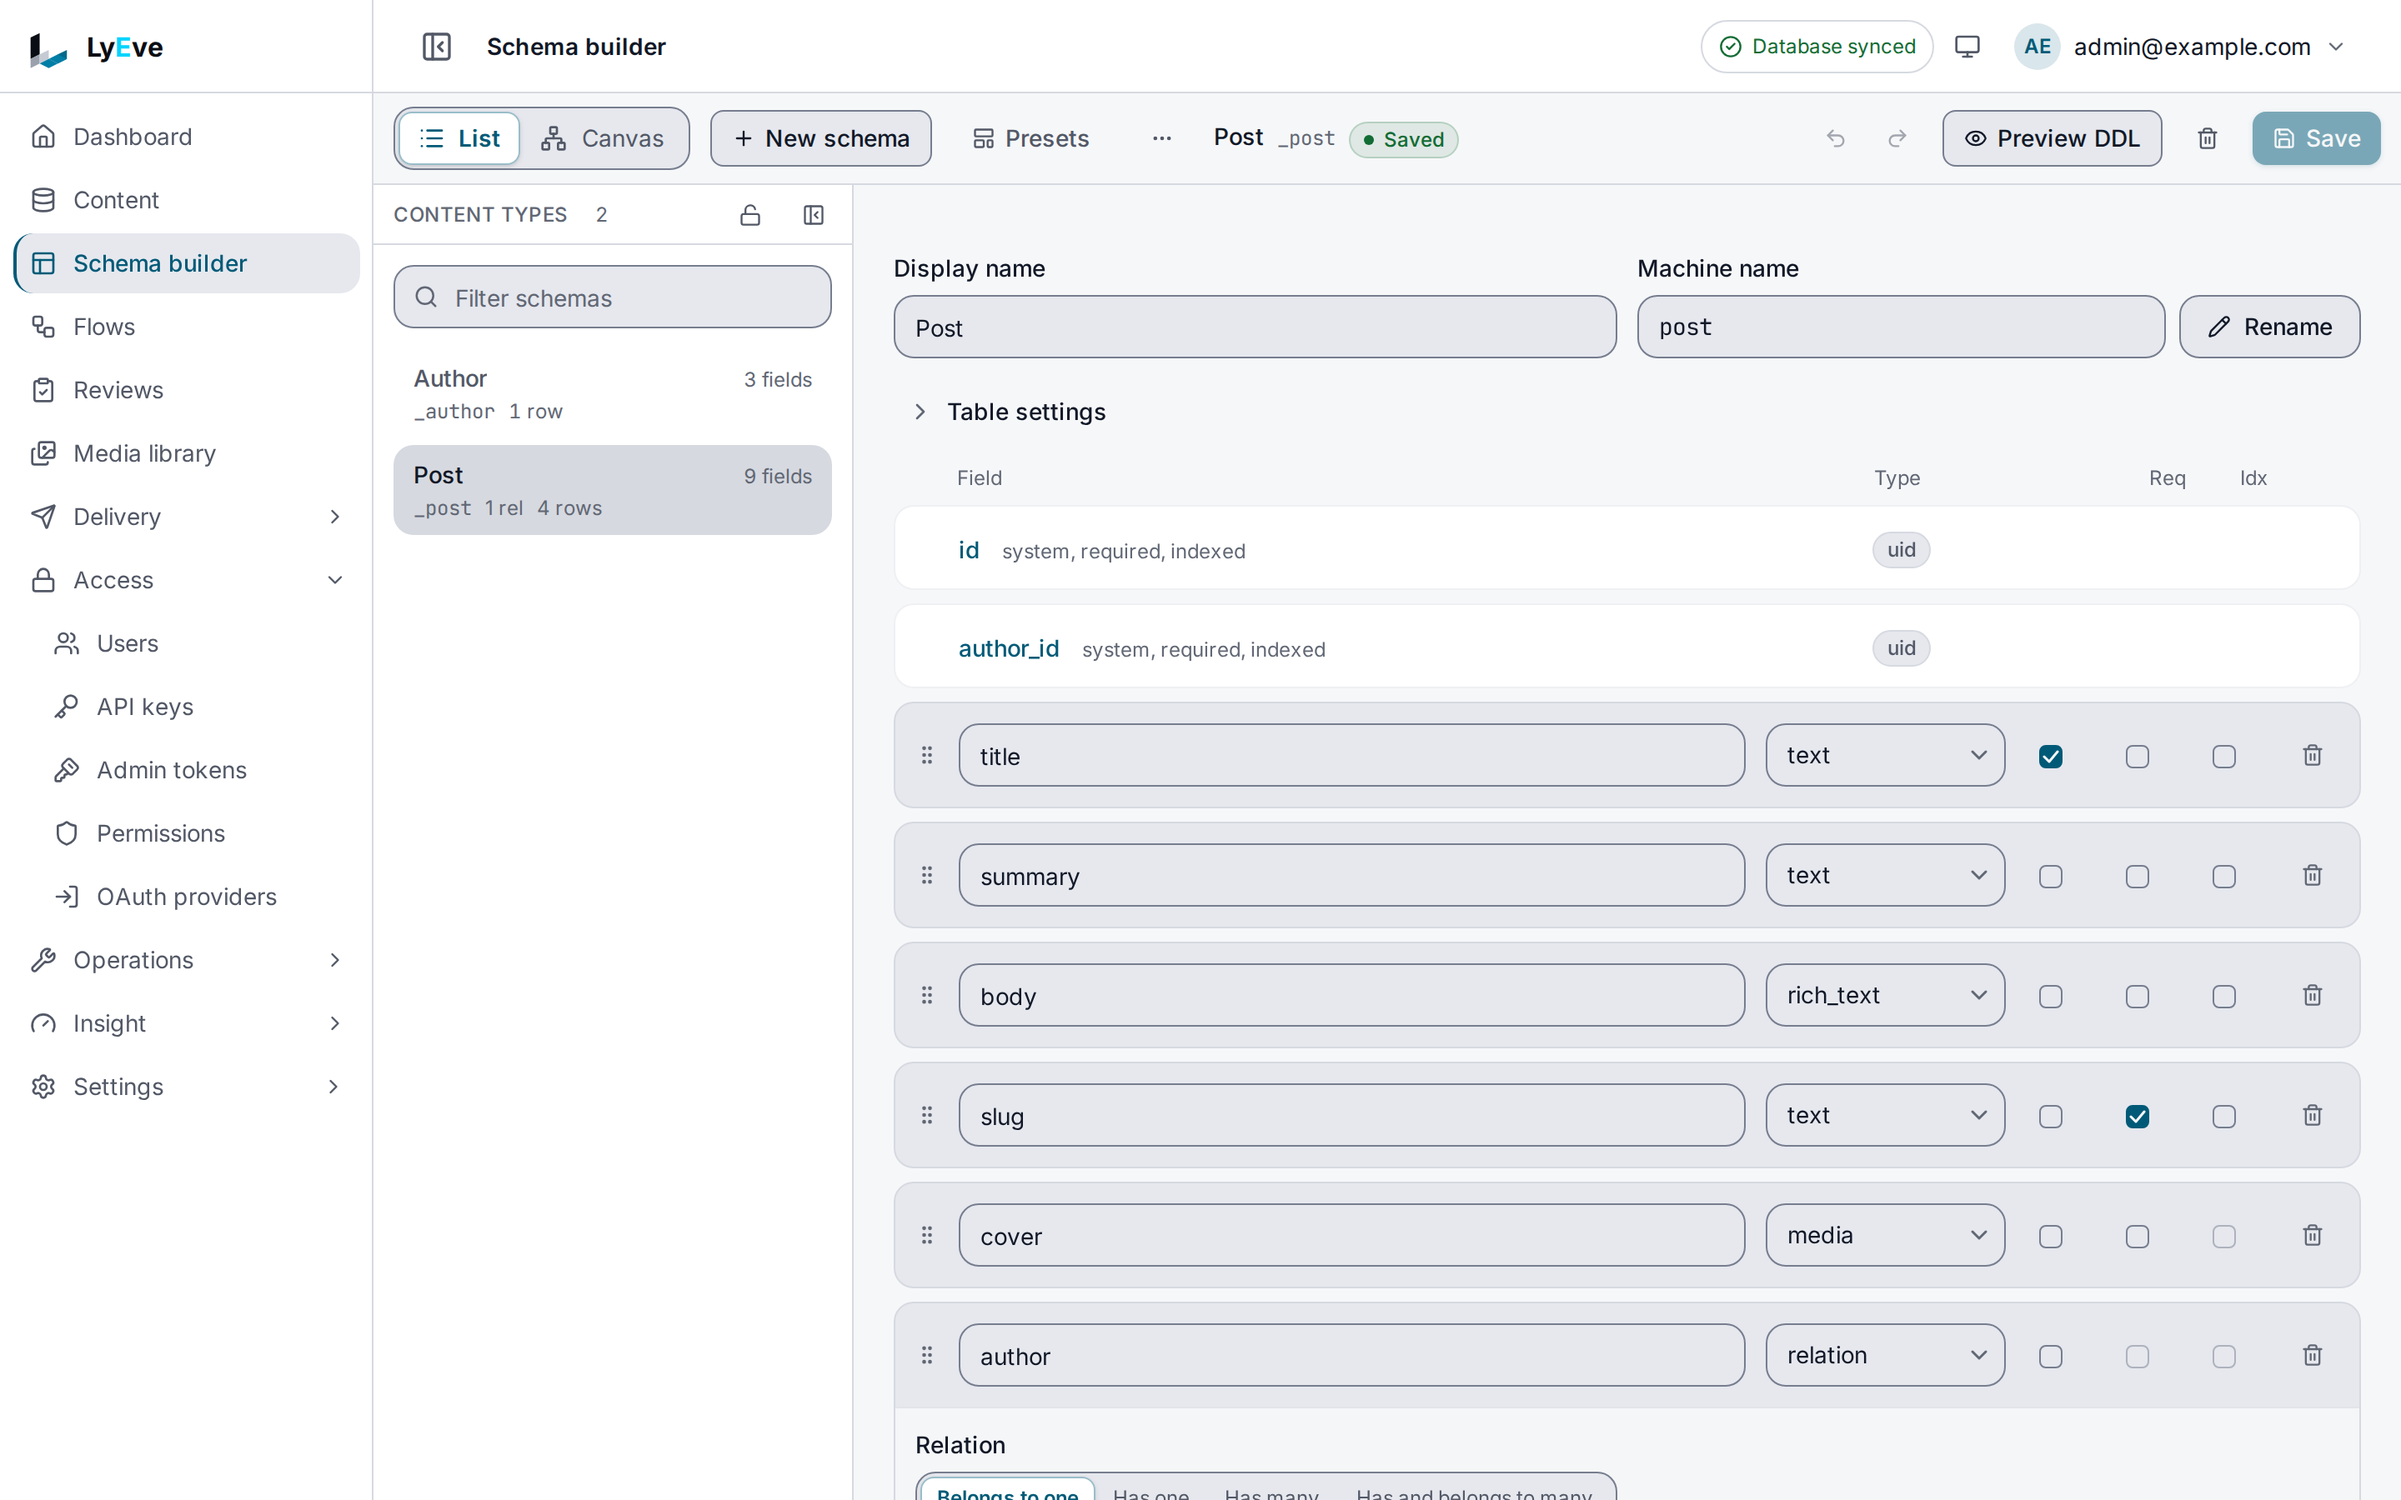
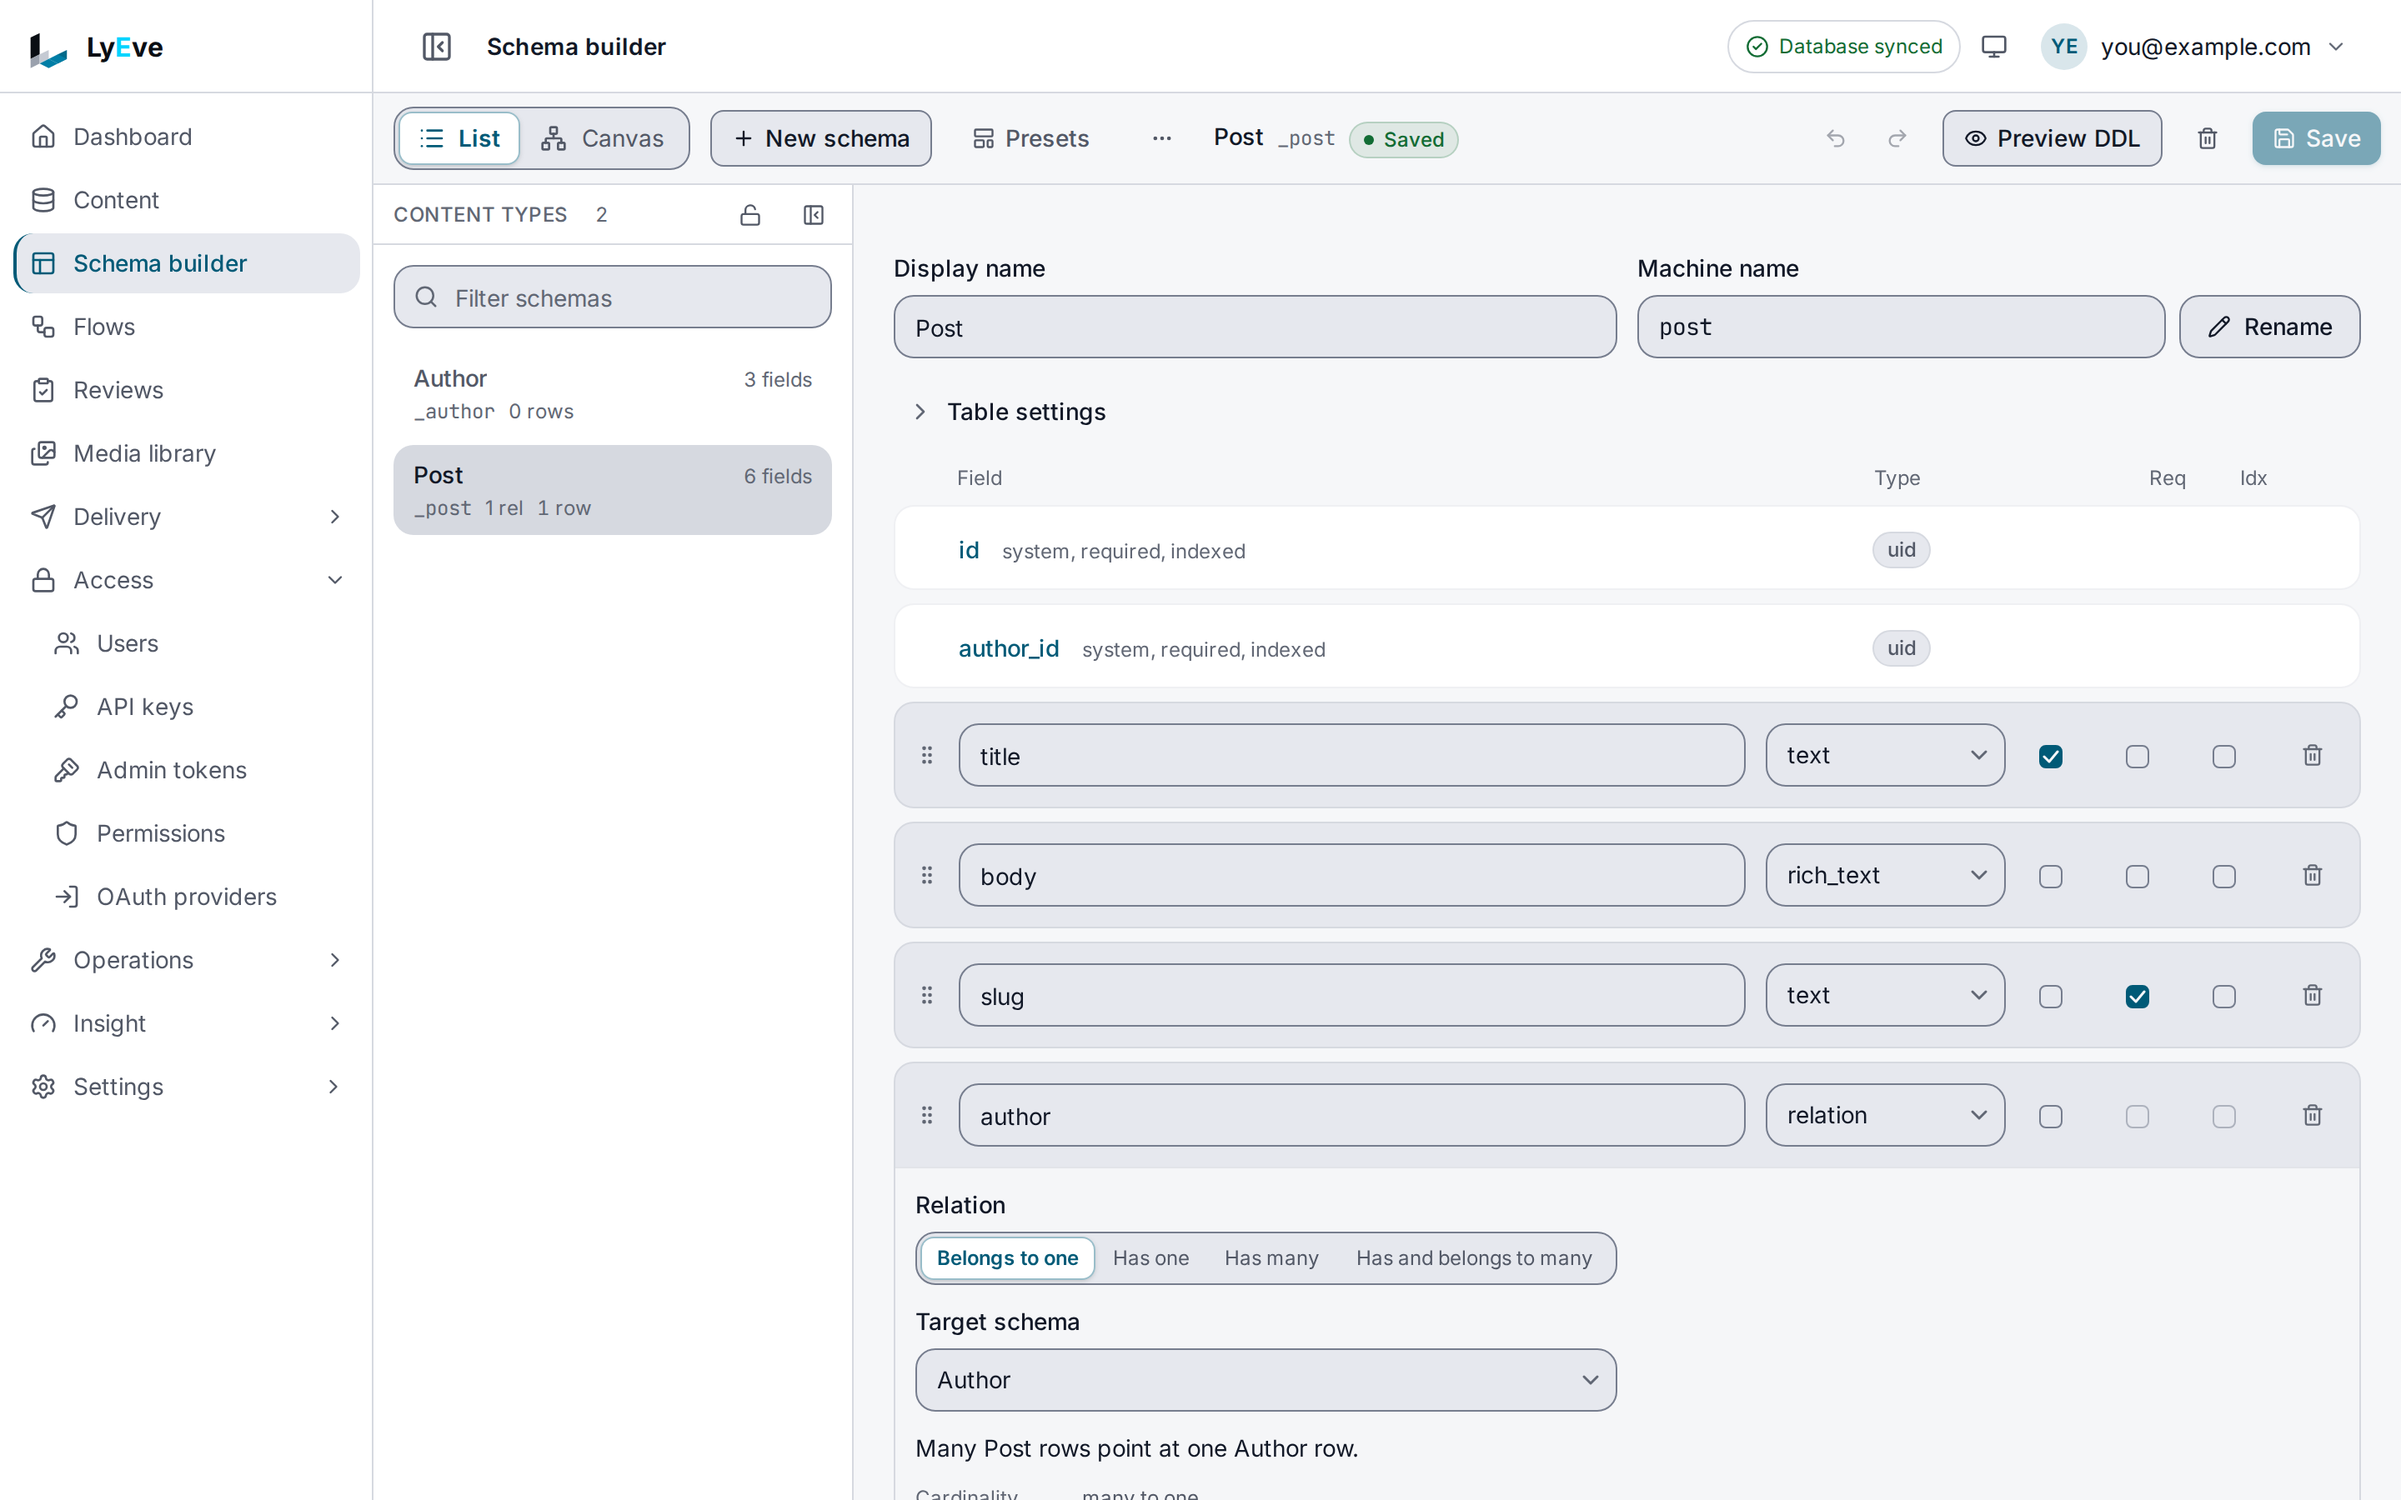
docs: give console readers their own step to turn on drafts
The schema builder has no switch for drafts and publishing, so the
console path of the first content type tutorial built a Post without
them and could not reach the publish steps. A new step turns drafts on
with two API calls a console reader can run, and warns that saving Post
from a schema builder opened before that call turns drafts off again.

The quickstart sends console readers to the Compose setup for step 0,
the configuration note no longer claims feature settings pages cannot
save a first value, and the schema builder screenshot now shows the
tutorial's own Post.

Task: FEAT-3TN111ZJPGW

diff --git a/docs/getting-started/first-content-type.md b/docs/getting-started/first-content-type.md
@@ -65,11 +65,10 @@ with no name.
 
 ## 2. Describe the new Post
 
-The new Post keeps the Quickstart's two fields and adds three things:
+The new Post keeps the Quickstart's two fields and adds two:
 
 | What is new | What it does |
 |---|---|
-| Drafts and publishing | Each post carries a status: `draft`, `published` or `archived` |
 | `slug`, indexed | Finding a post by its slug stays fast as the blog grows |
 | `author` | A `belongs_to` relation: each post points at one entry of `author` |
 
@@ -102,14 +101,10 @@ Save this as `post-schema.json`:
 }
 ```
 
-`with_draft_publish` turns on drafts and publishing.
+`with_draft_publish` also turns on drafts and publishing, which step 5 explains.
 
 </div>
 </div>
-
-Only the API turns on drafts and publishing. The schema builder in console v0.21.0 has no
-switch for them, so a reader who works in the console applies `post-schema.json` once with
-the API steps 3 and 4 of this page. Steps 5 and 6 then work in the console.
 
 [The data model](../concepts/data-model.md) lists every field type, every flag such as
 `unique` and `default`, the validation rules and the other kinds of relation.
@@ -135,13 +130,13 @@ curl -X POST http://localhost:3001/api/admin/schemas/post/preview-ddl \
 ```
 
 The answer is `{"statements": [...]}`, each with a `description`, the `sql` an apply would
-run and the `down_sql` that undoes it.
+run and the `down_sql` that undoes it. The file also turns on drafts, so the API's preview adds
+a status column.
 
 </div>
 </div>
 
-For this change you see a column for `slug` and its index, a status column when drafts are on,
-and for the author a column, a step that clears links to authors that do not exist, a foreign
+For this change you see a column for `slug` and its index, and for the author a column, a step that clears links to authors that do not exist, a foreign
 key and an index. Nothing changes until you apply.
 
 ## 4. Apply it
@@ -149,7 +144,8 @@ key and an index. Nothing changes until you apply.
 <div class="paths">
 <div data-path="console">
 
-Choose **Save**. The badge beside the name reads **Saved**.
+Choose **Save**. The badge beside the name reads **Saved**. The Post has no drafts yet, and
+step 5 turns them on.
 
 </div>
 <div data-path="api">
@@ -174,7 +170,54 @@ Removing a field later does not delete its data right away. The removal waits un
 admin applies it, so a mistaken edit loses nothing. [The data model](../concepts/data-model.md)
 covers renames and removals.
 
-## 5. Write an author and a post
+## 5. Turn on drafts and publishing
+
+With drafts on, each post carries a status: `draft`, `published` or `archived`. Only the API
+turns drafts on: the schema builder in console v0.21.0 has no switch for them. If you followed
+the API steps, `post-schema.json` turned them on in step 4, so go on to step 6.
+
+From the console path, run two commands. They use the address of
+[Run the engine and the console together](engine-and-console.md). An engine on its own takes
+the same calls on port 3001. Sign in with your console account and keep the token:
+
+```bash
+curl -X POST http://localhost:8080/api/admin/auth/login \
+  -H "Content-Type: application/json" \
+  -d '{"email": "you@example.com", "password": "<your password>"}'
+
+export TOKEN="<the token from the answer>"
+```
+
+Then save Post again with drafts turned on:
+
+```bash
+curl -X POST http://localhost:8080/api/admin/schemas \
+  -H "Authorization: Bearer $TOKEN" \
+  -H "Content-Type: application/json" \
+  -d '{
+        "name": "post",
+        "display_name": "Post",
+        "with_draft_publish": true,
+        "fields": [
+          { "name": "title", "field_type": "text", "required": true },
+          { "name": "body", "field_type": "rich_text" },
+          { "name": "slug", "field_type": "text", "indexed": true },
+          { "name": "author", "field_type": "relation", "relation_type": "belongs_to", "relation_to": "author" }
+        ]
+      }'
+```
+
+The answer is `200` with `"with_draft_publish": true`. The Quickstart's first post is now
+`published`.
+
+:::caution
+Reload the schema builder before you save Post in it again. A schema builder that had Post open
+before this call still holds the definition without drafts, and saving from it turns drafts
+off and drops every post's status. Its **Preview DDL** shows that as a step that drops the
+status column. After a reload, a save keeps drafts on.
+:::
+
+## 6. Write an author and a post
 
 <div class="paths">
 <div data-path="console">
@@ -234,7 +277,7 @@ and is published when it names none.
 </div>
 </div>
 
-## 6. Take it back to draft, then publish it
+## 7. Take it back to draft, then publish it
 
 <div class="paths">
 <div data-path="console">
@@ -273,7 +316,7 @@ The answer is `204`, and the post is back in the list.
 </div>
 </div>
 
-## 7. Read a post with its author
+## 8. Read a post with its author
 
 Reading a post together with its author is a Content API call, the one a site or an app
 makes. The console shows the author's name in the **Author** column of the Post list instead.

diff --git a/docs/how-to/change-a-setting.md b/docs/how-to/change-a-setting.md
@@ -155,8 +155,9 @@ refused the answer is `409`. A license goes to `POST /api/admin/license/renew`, 
 </div>
 </div>
 
-On console v0.21.0, a setting that nothing has saved yet is saved for the first time with the
-API: **Settings > Configuration** lists only the settings one of the three places sets.
+On console v0.21.0, **Settings > Configuration** lists only the settings one of the three places
+sets, so it cannot save a setting for the first time. Save that one with the API, or on its
+feature's own settings page.
 
 To let the console take over a setting the environment sets, name it in `LYEVE_OVERRIDABLE` on
 the engine. The environment value then stays in force until someone saves another one.

diff --git a/docs/getting-started/engine-and-console.md b/docs/getting-started/engine-and-console.md
@@ -281,7 +281,7 @@ feature that is not running says so and how to turn it on.
 4. Choose **Preview DDL** to see what the change will do to the database, then **Close** and
    **Save**.
 
-![The schema builder with the Post content type open: its display name, machine name and fields with their types.](images/schema-builder.png)
+![The schema builder with a Post content type open: its display name, machine name and fields with their types. This Post also has the slug and author fields that Your first content type adds.](images/schema-builder.png)
 
 5. Open **Content**, pick **Post** and choose **New entry**. Fill in the fields and choose
    **Create**.

diff --git a/docs/getting-started/quickstart.md b/docs/getting-started/quickstart.md
@@ -18,7 +18,8 @@ file, and its address, `http://localhost:8080`, is where you open the console.
 ## 0. Start a database and the engine
 
 If you already started an engine by following [Installation](installation.md), skip to
-step 1.
+step 1. For the console steps, start both with
+[Run the engine and the console together](engine-and-console.md) instead, then skip to step 1.
 
 ```bash
 docker network create lyeve
